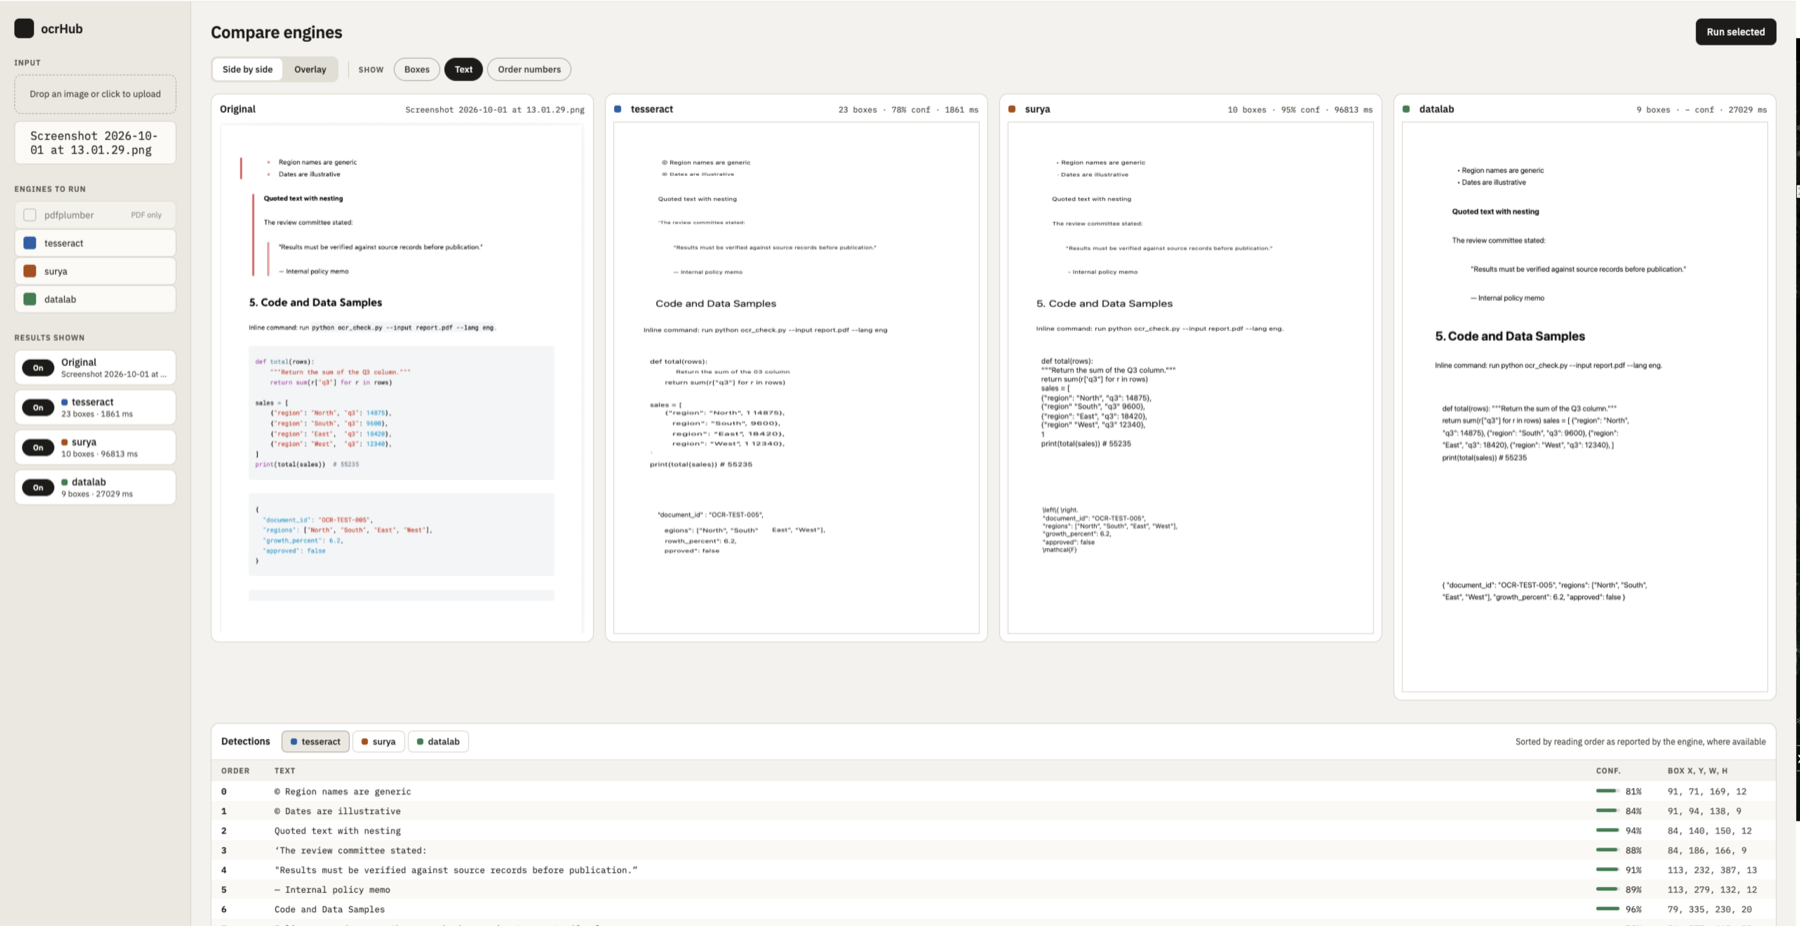
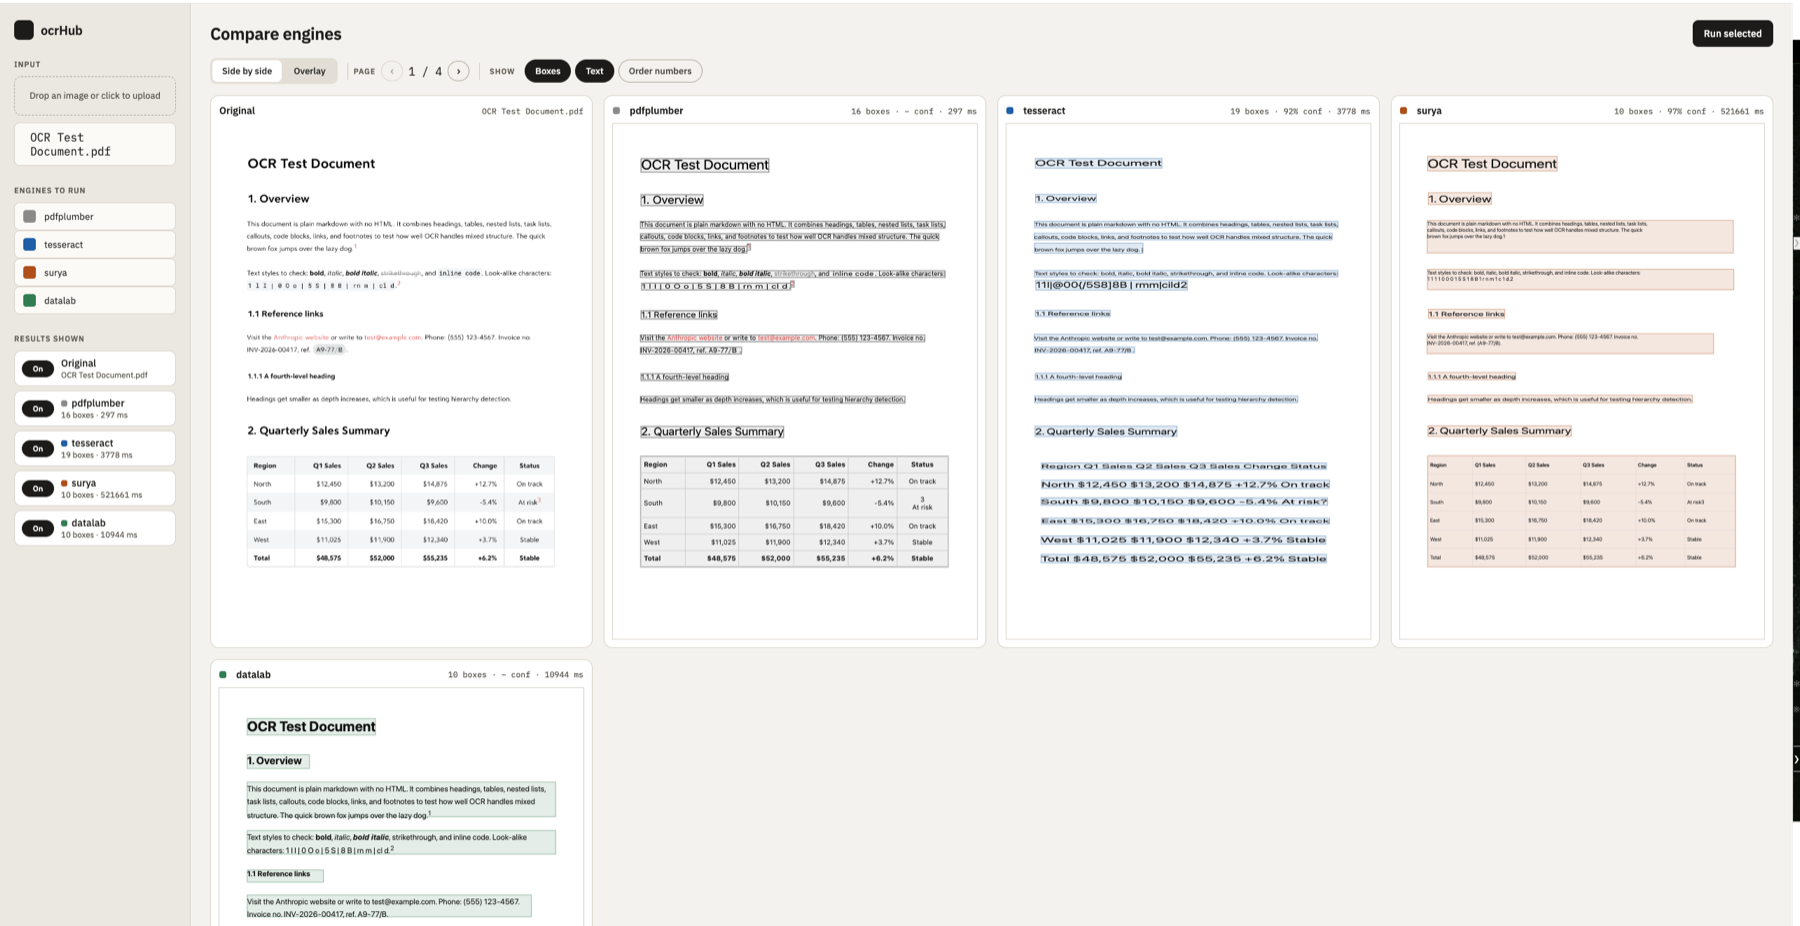
Replace the dashboard screenshot with one showing all four engines

diff --git a/docs/visualisations.md b/docs/visualisations.md
@@ -23,11 +23,13 @@ what each engine gives you, how it is drawn, and where it falls short.
 
 ## The dashboard
 
-![The dashboard with the original page and the Tesseract, Surya and Datalab panels side by side, Text view on](images/dashboard-compare-engines.png)
+![The dashboard with the original page and the pdfplumber, Tesseract, Surya and Datalab panels side by side, page 1 of 4](images/dashboard-compare-engines.png)
 
-*Side by side on a PNG of part of the test PDF, with **Text** on. Tesseract
-took 1.9 s, Datalab 27 s and Surya 97 s. Surya's panel shows its raw output:
-LaTeX fragments such as `\left(` around the JSON braces.*
+*Side by side on page 1 of the 4-page test document, with **Boxes** and **Text**
+on. pdfplumber took 0.3 s, Tesseract 3.8 s and Datalab 10.9 s. pdfplumber and
+Surya draw the sales table as a grid, while Tesseract returns it as plain lines
+of text. The **Page** control in the toolbar steps through the other three
+pages.*
 
 - **Sidebar:** upload a file, tick the engines to run, and choose which
   finished results are shown.

diff --git a/README.md b/README.md
@@ -5,7 +5,7 @@ the same "which OCR engine works best for this document" comparison
 by hand across two separate OCR pipeline projects — this bundles that
 comparison into something you can run in one command.
 
-![The ocrHub dashboard comparing Tesseract, Surya and Datalab side by side](docs/images/dashboard-compare-engines.png)
+![The ocrHub dashboard: the original page next to pdfplumber, Tesseract, Surya and Datalab](docs/images/dashboard-compare-engines.png)
 
 ## Included engines
 
